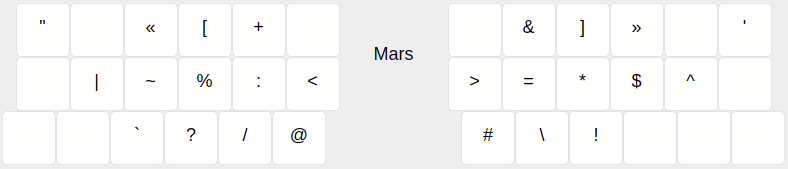
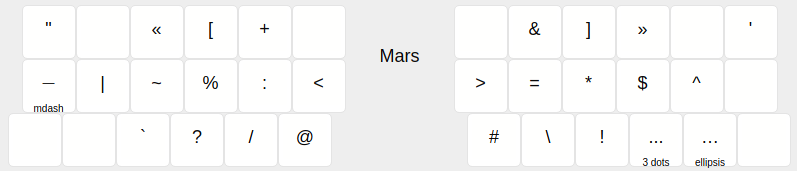
Adjust layout a little bit and update pics

diff --git a/keymaps/default/keymap.c b/keymaps/default/keymap.c
@@ -18,15 +18,15 @@ const uint16_t PROGMEM keymaps[][MATRIX_ROWS][MATRIX_COLS] = {
     KC_RPRN, RU_A,    RU_Y,  RU_B,  RU_G, RU_TS),
 [MARS] = FINGERS(
     KK_DQUO, _______, KK_GUIL, KK_LBRC, KC_PLUS, _______,
-    _______, KK_PIPE, KK_TILD, KC_PERC, KK_COLN, KK_LT,
+    KK_MDSH, KK_PIPE, KK_TILD, KC_PERC, KK_COLN, KK_LT,
     _______, _______, KK_GRV,  KK_QUES, KK_SLSH, KK_AT,
     _______, KK_AMPR, KK_RBRC, KK_EMOT, _______, KK_QUOT,
     KK_GT,   KC_EQL,  KC_ASTR, KK_DLR,  KK_CIRC, _______,
-    KK_HASH, KK_BSLS, KC_EXLM, _______, _______, _______),
+    KK_HASH, KK_BSLS, KC_EXLM, KK_3DOT, KK_ELLI, _______),
 [SUN] = FINGERS(
     KC_PAUS, KC_CAPS, KK_TPRV, KK_TNXT, KC_APP,  KC_INS,
     KC_ENT,  KK_SASK, KK_SSCN, KK_SWIN, KK_SSEL, KK_COPY,
-    KC_PSCR, _______, KC_VOLU, KC_MUTE, KC_VOLD, KK_PAST,
+    KC_PSCR, _______, KC_VOLD, KC_MUTE, KC_VOLU, KK_PAST,
     KC_F13,  KC_F1,   KC_F2,   KC_F3,   KC_F4,   KC_F16,
     KC_F14,  KC_F5,   KC_F6,   KC_F7,   KC_F8,   KC_F17,
     KC_F15,  KC_F9,   KC_F10,  KC_F11,  KC_F12,  KC_F18),
@@ -39,7 +39,7 @@ const uint16_t PROGMEM keymaps[][MATRIX_ROWS][MATRIX_COLS] = {
     _______, KC_MPRV, KC_MPLY, KC_MNXT, KC_PGDN, _______),
 [MOUSE] = FINGERS(
     XXXXXXX,    XXXXXXX, XXXXXXX, XXXXXXX, XXXXXXX, XXXXXXX,
-    XXXXXXX,    XXXXXXX, XXXXXXX, XXXXXXX, XXXXXXX, XXXXXXX,
+    XXXXXXX,    KC_LGUI, KC_LALT, KC_RSFT, KC_LCTL, XXXXXXX,
     RESET,      XXXXXXX, XXXXXXX, XXXXXXX, XXXXXXX, XXXXXXX,
     KC_MS_BTN3, KC_BTN1, KC_MS_U, KC_BTN2, KC_WH_L, KC_WH_R,
     XXXXXXX,    KC_MS_L, KC_MS_D, KC_MS_R, KC_WH_U, XXXXXXX,
@@ -148,6 +148,28 @@ bool process_record_user(uint16_t keycode, keyrecord_t *record) {
     if (record->event.pressed) {
       tap_code16(RU_DOT);
       tap_code16(KC_SPC);
+    }
+
+    case KK_MDSH:
+    if (record->event.pressed) {
+      tap_code16(KC_MINS);
+      tap_code16(KC_MINS);
+      tap_code16(KC_MINS);
+    }
+
+    case KK_3DOT:
+    if (record->event.pressed) {
+      tap_code16((layer_state & _BV(CYRILLIC)) ? RU_COMM : KC_COMM);
+      tap_code16((layer_state & _BV(CYRILLIC)) ? RU_COMM : KC_COMM);
+      tap_code16((layer_state & _BV(CYRILLIC)) ? RU_COMM : KC_COMM);
+    }
+
+    case KK_ELLI:
+    if (record->event.pressed) {
+      tap_code16(KC_SLCK);
+      tap_code16((layer_state & _BV(CYRILLIC)) ? RU_COMM : KC_COMM);
+      tap_code16((layer_state & _BV(CYRILLIC)) ? RU_COMM : KC_COMM);
+      tap_code16((layer_state & _BV(CYRILLIC)) ? RU_COMM : KC_COMM);
     }
   }
   return true;

diff --git a/sagaris.h b/sagaris.h
@@ -35,6 +35,9 @@ enum custom_key {
     KK_HASH,
     KK_BSLS,
     KK_DOT,
+    KK_MDSH,
+    KK_3DOT,
+    KK_ELLI,
     M_LGUI,
     M_LALT_TAB,
     M_SUN_ESC,

diff --git a/src/Keymap.md b/src/Keymap.md
@@ -38,11 +38,11 @@ The Cyrillic chords are not declared in this file, see `chords.ini`.
 ```c
 [MARS] = FINGERS(
     KK_DQUO, _______, KK_GUIL, KK_LBRC, KC_PLUS, _______,
-    _______, KK_PIPE, KK_TILD, KC_PERC, KK_COLN, KK_LT,
+    KK_MDSH, KK_PIPE, KK_TILD, KC_PERC, KK_COLN, KK_LT,
     _______, _______, KK_GRV,  KK_QUES, KK_SLSH, KK_AT,
     _______, KK_AMPR, KK_RBRC, KK_EMOT, _______, KK_QUOT,
     KK_GT,   KC_EQL,  KC_ASTR, KK_DLR,  KK_CIRC, _______,
-    KK_HASH, KK_BSLS, KC_EXLM, _______, _______, _______),
+    KK_HASH, KK_BSLS, KC_EXLM, KK_3DOT, KK_ELLI, _______),
 ```
 
 ![Sun layer](pic/layer_sun.png)
@@ -51,15 +51,13 @@ The Cyrillic chords are not declared in this file, see `chords.ini`.
 [SUN] = FINGERS(
     KC_PAUS, KC_CAPS, KK_TPRV, KK_TNXT, KC_APP,  KC_INS,
     KC_ENT,  KK_SASK, KK_SSCN, KK_SWIN, KK_SSEL, KK_COPY,
-    KC_PSCR, _______, KC_VOLU, KC_MUTE, KC_VOLD, KK_PAST,
+    KC_PSCR, _______, KC_VOLD, KC_MUTE, KC_VOLU, KK_PAST,
     KC_F13,  KC_F1,   KC_F2,   KC_F3,   KC_F4,   KC_F16,
     KC_F14,  KC_F5,   KC_F6,   KC_F7,   KC_F8,   KC_F17,
     KC_F15,  KC_F9,   KC_F10,  KC_F11,  KC_F12,  KC_F18),
 ```
 
 ![Moon layer](pic/layer_moon.png)
-
-Note the hard sign not on the picture.
 
 ```c
 [MOON] = FINGERS(
@@ -76,7 +74,7 @@ Note the hard sign not on the picture.
 ```c
 [MOUSE] = FINGERS(
     XXXXXXX,    XXXXXXX, XXXXXXX, XXXXXXX, XXXXXXX, XXXXXXX,
-    XXXXXXX,    XXXXXXX, XXXXXXX, XXXXXXX, XXXXXXX, XXXXXXX,
+    XXXXXXX,    KC_LGUI, KC_LALT, KC_RSFT, KC_LCTL, XXXXXXX,
     RESET,      XXXXXXX, XXXXXXX, XXXXXXX, XXXXXXX, XXXXXXX,
     KC_MS_BTN3, KC_BTN1, KC_MS_U, KC_BTN2, KC_WH_L, KC_WH_R,
     XXXXXXX,    KC_MS_L, KC_MS_D, KC_MS_R, KC_WH_U, XXXXXXX,
@@ -212,6 +210,28 @@ bool process_record_user(uint16_t keycode, keyrecord_t *record) {
     if (record->event.pressed) {
       tap_code16(RU_DOT);
       tap_code16(KC_SPC);
+    }
+
+    case KK_MDSH:
+    if (record->event.pressed) {
+      tap_code16(KC_MINS);
+      tap_code16(KC_MINS);
+      tap_code16(KC_MINS);
+    }
+
+    case KK_3DOT:
+    if (record->event.pressed) {
+      tap_code16((layer_state & _BV(CYRILLIC)) ? RU_COMM : KC_COMM);
+      tap_code16((layer_state & _BV(CYRILLIC)) ? RU_COMM : KC_COMM);
+      tap_code16((layer_state & _BV(CYRILLIC)) ? RU_COMM : KC_COMM);
+    }
+
+    case KK_ELLI:
+    if (record->event.pressed) {
+      tap_code16(KC_SLCK);
+      tap_code16((layer_state & _BV(CYRILLIC)) ? RU_COMM : KC_COMM);
+      tap_code16((layer_state & _BV(CYRILLIC)) ? RU_COMM : KC_COMM);
+      tap_code16((layer_state & _BV(CYRILLIC)) ? RU_COMM : KC_COMM);
     }
   }
   return true;

diff --git a/src/Keyboard.md b/src/Keyboard.md
@@ -59,6 +59,9 @@ Processing is done in [Keymap.md](Keymap.md).
 - `KK_HASH`
 - `KK_BSLS`
 - `KK_DOT`
+- `KK_MDSH`
+- `KK_3DOT`
+- `KK_ELLI`
 - `M_LGUI`
 - `M_LALT_TAB`
 - `M_SUN_ESC`
